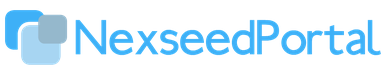
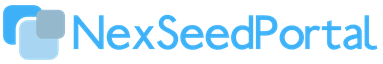
ログインページ追加 login.html
ヘッダー画像差し替え

Resisterボタンの大きさ調整
css-index.css 245行目付近 .form-header .btn の値を 100% -> 47%に変更

Changed region(s): [[0.0, 0.0625, 1.0, 0.875], [0.0574, 0.875, 0.1436, 0.9375], [0.8329, 0.6562, 0.8616, 0.6875]]

diff --git a/design/login.html b/design/login.html
@@ -1,0 +1,146 @@
+<!DOCTYPE html>
+<html lang="ja">
+<head>
+
+<!-- /.website title -->
+<title>Nexseed Portal</title>
+<meta name="viewport" content="width=device-width, initial-scale=1, maximum-scale=1, user-scalable=no">
+<meta charset="UTF-8">
+
+<!-- CSS Files -->
+<link href="../asset/css/bootstrap.css" rel="stylesheet" media="screen">
+<link href="../asset/css/font-awesome.min.css" rel="stylesheet">
+<link href="../asset/fonts/icon-7-stroke/css/pe-icon-7-stroke.css" rel="stylesheet">
+<link href="../asset/css/animate.css" rel="stylesheet" media="screen">
+<link href="../asset/css/owl.theme.css" rel="stylesheet">
+<link href="../asset/css/owl.carousel.css" rel="stylesheet">
+
+<!-- Colors -->
+<link href="../asset/css/css-index.css" rel="stylesheet" media="screen">
+<!-- <link href="css/css-index-green.css" rel="stylesheet" media="screen"> -->
+<!-- <link href="css/css-index-purple.css" rel="stylesheet" media="screen"> -->
+<!-- <link href="css/css-index-red.css" rel="stylesheet" media="screen"> -->
+<!-- <link href="css/css-index-orange.css" rel="stylesheet" media="screen"> -->
+<!-- <link href="css/css-index-yellow.css" rel="stylesheet" media="screen"> -->
+
+<!-- Google Fonts -->
+<link rel="stylesheet" href="http://fonts.googleapis.com/css?family=Lato:100,300,400,700,900,100italic,300italic,400italic,700italic,900italic" />
+
+</head>
+  
+<body data-spy="scroll" data-target="#navbar-scroll">
+	<!-- さとしさん担当 -->
+<div id="menu">
+	<nav class="navbar-wrapper navbar-default" role="navigation">
+		<div class="container">
+			  <div class="navbar-header">
+				<!-- <button type="button" class="navbar-toggle" data-toggle="collapse" data-target=".navbar-backyard">
+				  <span class="sr-only">Toggle navigation</span>
+				  <span class="icon-bar"></span>
+				  <span class="icon-bar"></span>
+				  <span class="icon-bar"></span>
+				</button> -->
+				<a class="navbar-brand site-name" href="index.html"><img src="../asset/images/nex.png" alt="logo"></a>
+			  </div>
+	 		<!-- NAVIGATION -->
+			  <div id="navbar-scroll" class="collapse navbar-collapse navbar-backyard navbar-right">
+				<ul class="nav navbar-nav">
+				<li>
+					<div class="btn-section"><!-- <a href="join/index.html" button type="button" class="btn-default2"> -->　　　</a></div>
+				</li>
+				</ul>
+			  </div>
+		</div>
+	</nav>
+</div>
+<!-- さとしさん担当 -->
+
+<!-- /.preloader -->
+<div id="preloader"></div>
+<div id="top"></div>
+
+<!-- /.parallax full screen background image -->
+<div class="fullscreen landing parallax" style="background-image:url('../asset/images/top_image.jpg');" data-img-width="2000" data-img-height="1333" data-diff="100">
+	
+	<div class="overlay">
+		<div class="container">
+			<div class="row">
+				<div class="col-md-7">
+					<!-- /.main title -->
+						<h1 class="wow fadeInLeft">
+						Nexseed Portal Site<br>New Open!!
+						</h1>
+
+					<!-- /.header paragraph -->
+					<div class="landing-text wow fadeInUp">
+						<p>留学生活を有意義にするために、是非このサイトをご活用下さい。<br>
+						皆さんが作り上げていくポータルサイトです。<br>
+						使い方は自由自在！！<br>
+						おすすめレストラン、ローカル情報、レジャー情報<br>
+						特に日常生活に関連する情報満載です！<br>
+						よろしくお願いします！</p>
+					</div>
+
+				</div> 
+				
+				<!-- /.signup form -->
+				<div class="col-md-5">
+				<!-- さとしさん担当 -->
+					<div class="signup-header wow fadeInUp">
+						<h3 class="form-title text-center">Let's HACK!</h3>
+						<form class="form-header" action="index_regist.html" role="form" method="POST" id="#">
+						<input type="hidden" name="u" value="503bdae81fde8612ff4944435">
+						<input type="hidden" name="id" value="bfdba52708">
+							<div class="form-group">
+								<input class="form-control input-lg" name="MERGE1" id="name" type="text" placeholder="Email address" required>
+							</div>
+							<div class="form-group">
+								<input class="form-control input-lg" name="MERGE0" id="email" type="email" placeholder="Password" required>
+							</div>
+							<div class="form-group last">
+								<a href="check.html"><input type="botton" class="btn btn-warning btn-block btn-lg" value="Register" style="margin-left:5px; float:left;"></a>
+ 								<input type="submit" class="btn btn-warning btn-block btn-lg" value="Login" style="margin-left:5px; float:left;">
+							</div>
+						</form>
+					</div>
+				<!-- さとしさん担当終わり -->
+				</div>
+			</div>
+		</div> 
+	</div> 
+</div>
+ 
+
+
+
+<!-- /.intro section -->
+
+<!-- /.footer -->
+<footer id="footer">
+	<div class="container">
+		<div class="col-sm-4 col-sm-offset-4">
+			<!-- /.social links -->
+				<div class="social text-center">
+					<ul>
+						<li><a class="wow fadeInUp" href="https://twitter.com/NexSeed_Cebu?lang=ja" target="_blank"><i class="fa fa-twitter"></i></a></li>
+						<li><a class="wow fadeInUp" href="https://www.facebook.com/NexSeed/?ref=br_rs" target="_blank" data-wow-delay="0.2s"><i class="fa fa-facebook"></i></a></li>
+					</ul>
+				</div>	
+			<div class="text-center wow fadeInUp" style="font-size: 14px;">Copyright NexSeed Portal Since 2016</div>
+			<a href="#" class="scrollToTop"><i class="pe-7s-up-arrow pe-va"></i></a>
+		</div>	
+	</div>	
+</footer>
+	
+	<!-- /.javascript files -->
+    <script src="../asset/js/jquery.js"></script>
+    <script src="../asset/js/bootstrap.min.js"></script>
+    <script src="../asset/js/custom.js"></script>
+    <script src="../asset/js/jquery.sticky.js"></script>
+	<script src="../asset/js/wow.min.js"></script>
+	<script src="../asset/js/owl.carousel.min.js"></script>
+	<script>
+		new WOW().init();
+	</script>
+  </body>
+</html>

diff --git a/asset/css/css-index.css b/asset/css/css-index.css
@@ -242,7 +242,7 @@ a:hover {
 .form-header .btn {
 	border-radius: 0;
 	height: 55px;
-	width: 100%;
+	width: 47%;
 	background-color: #3eb0f7;
 	color: white;
 	font-size: 17px !important;
